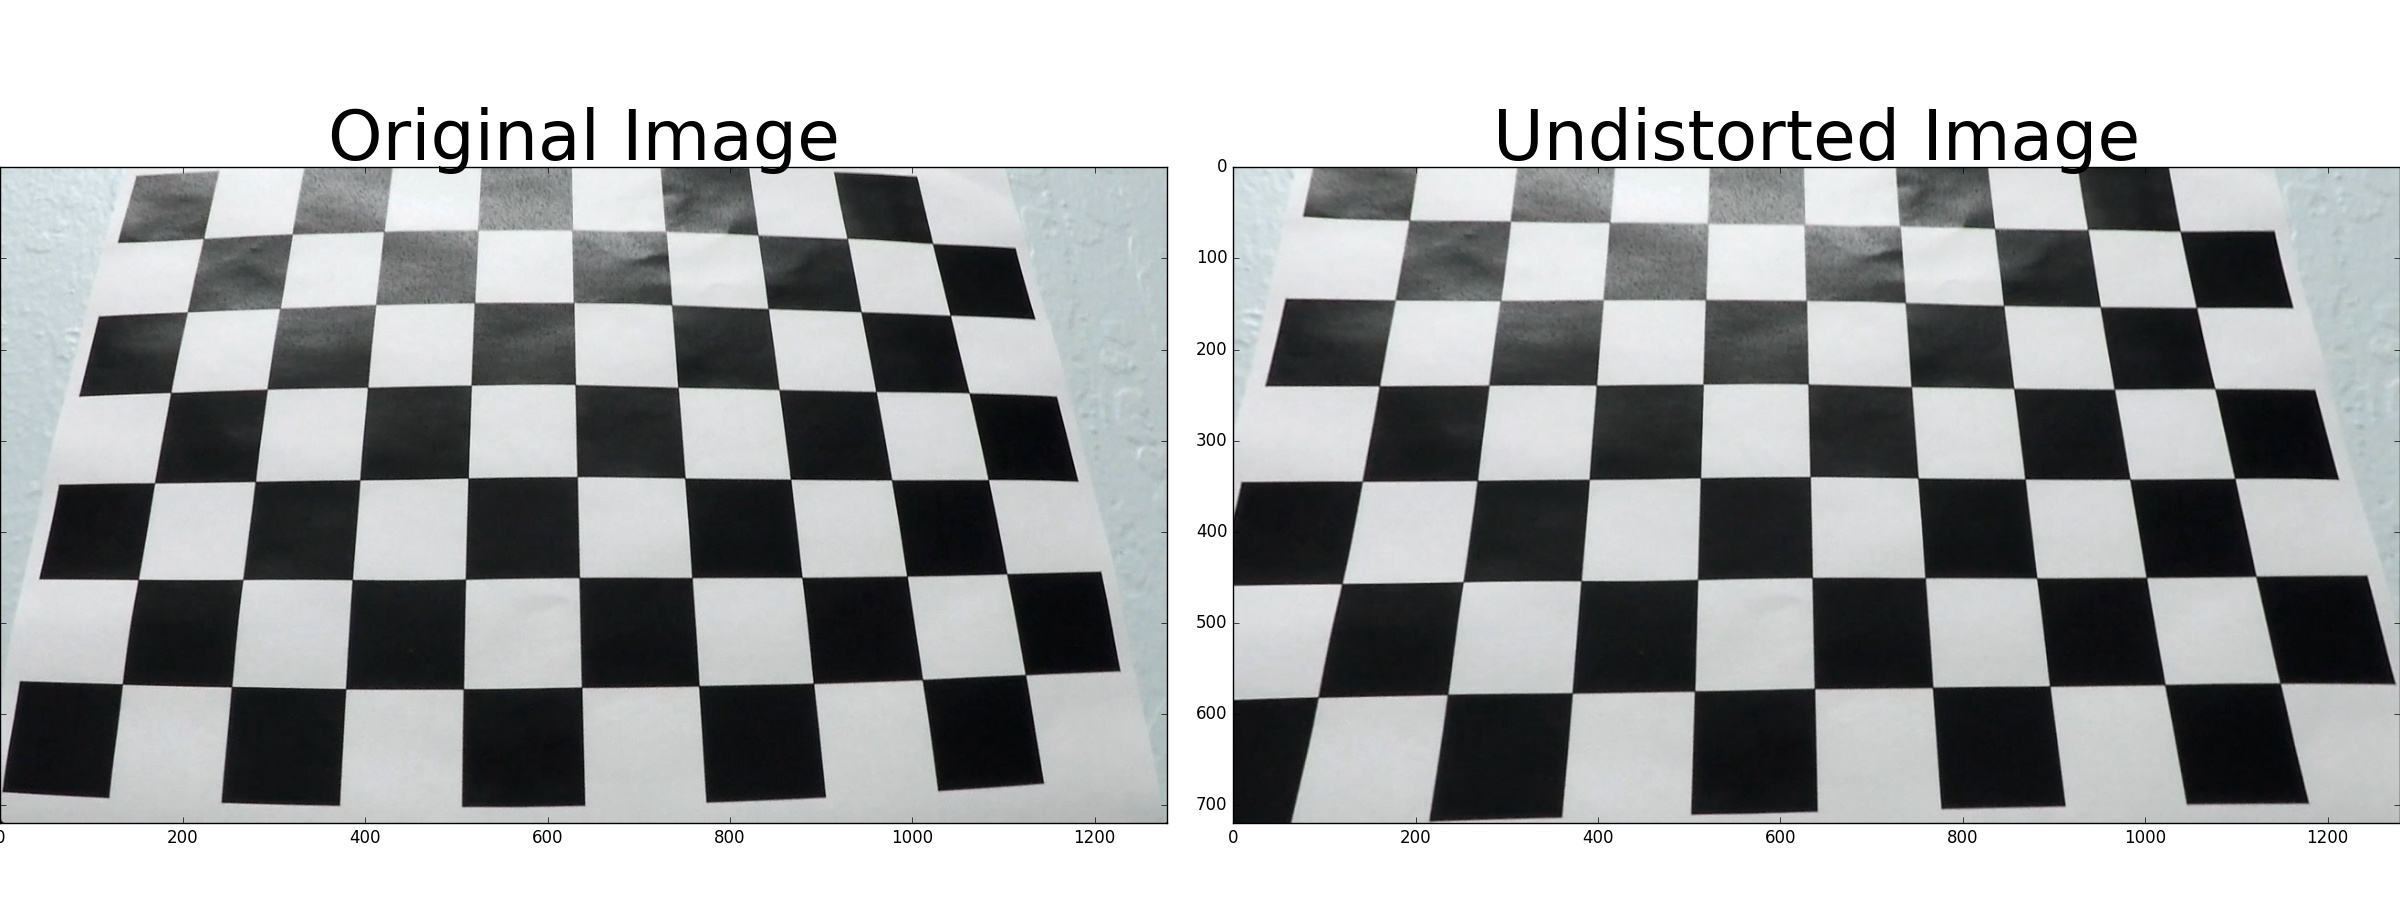
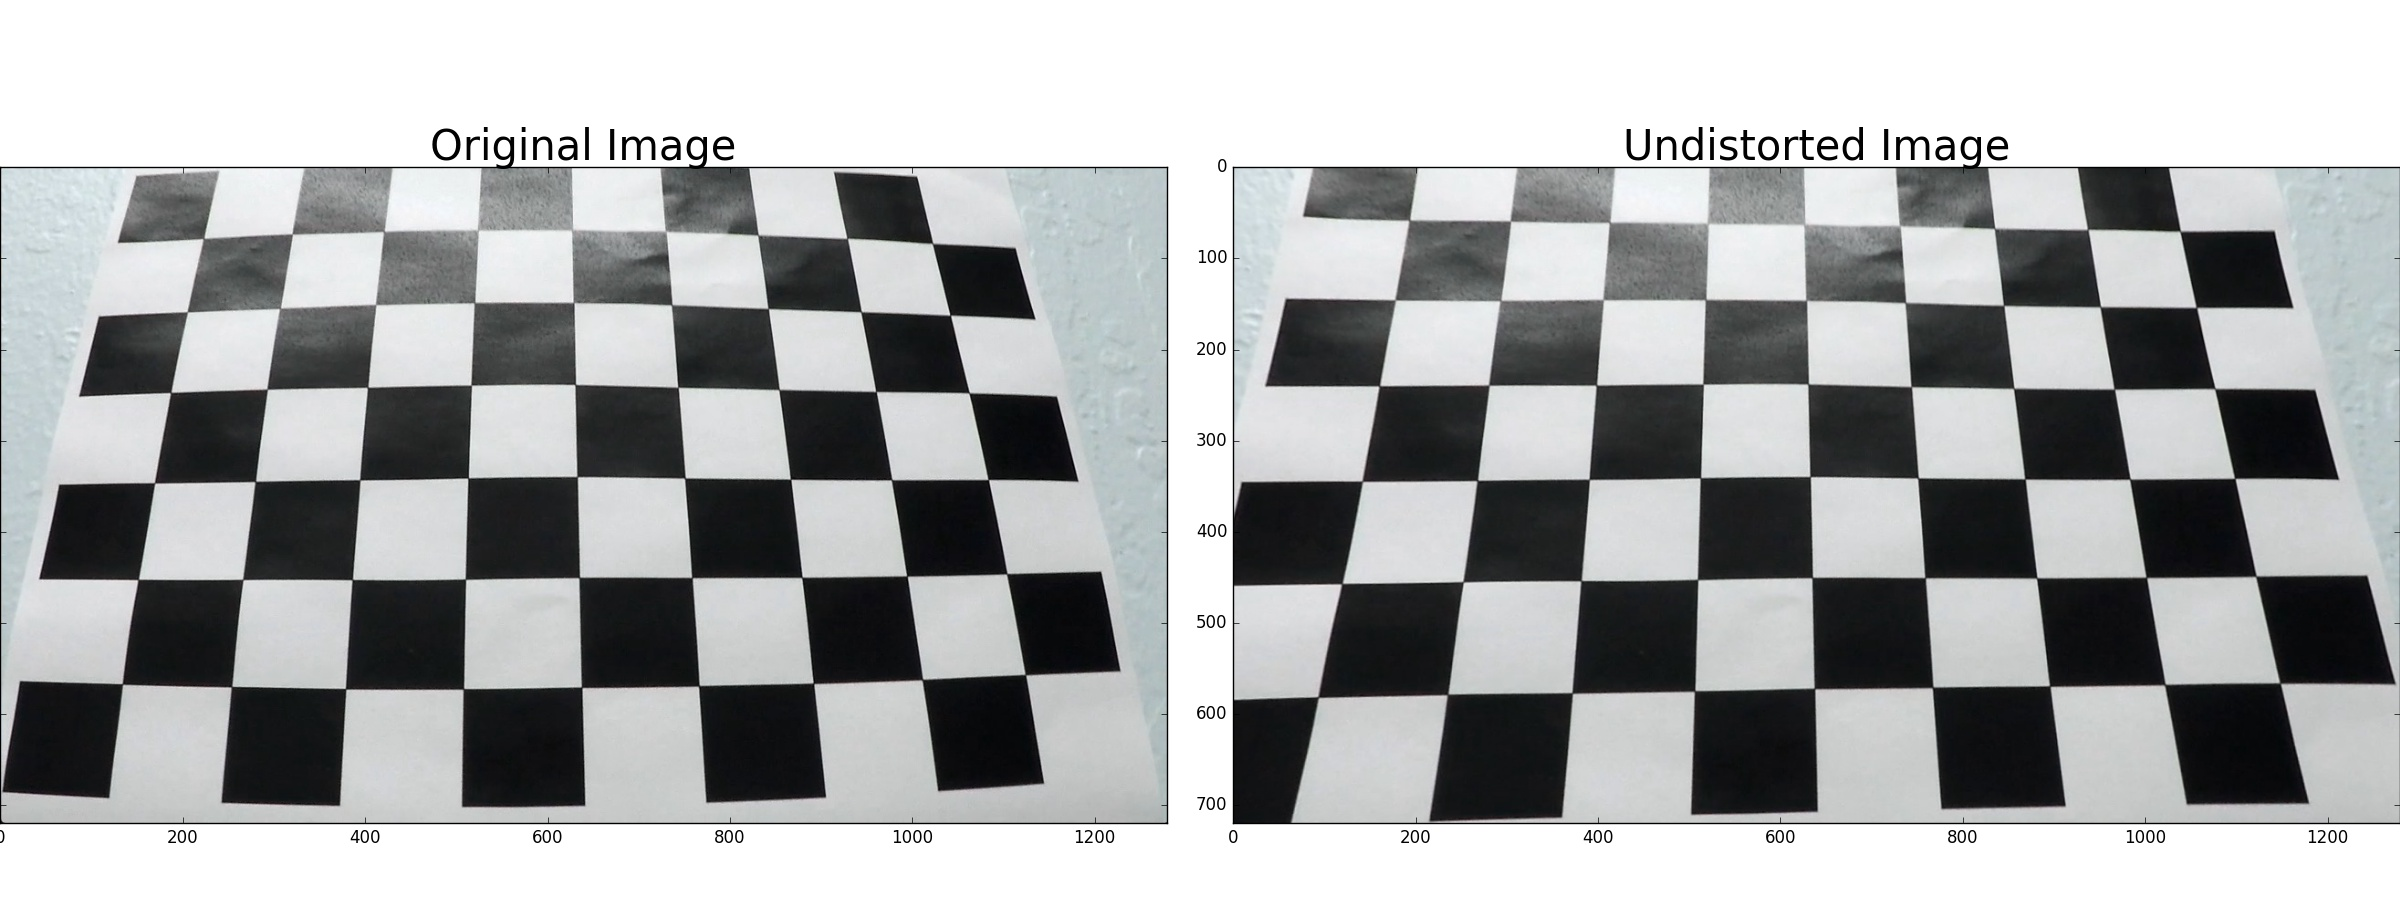
add baseline vision with on RGB processing

Changed region(s): [[0.625, 0.1244, 0.9062, 0.1867], [0.125, 0.1244, 0.3438, 0.1867]]

diff --git a/util_vision.py b/util_vision.py
@@ -1,0 +1,170 @@
+import numpy as np
+import cv2
+
+# a function that applies Sobel x or y, 
+# then takes an absolute value and applies a threshold.
+# Note: calling your function with orient='x', thresh_min=5, thresh_max=100
+# should produce output like the example image shown above this quiz.
+def abs_sobel_thresh(img, orient='x', thresh_min=0, thresh_max=255):
+    
+    # Apply the following steps to img
+    # 1) Convert to grayscale
+    img = cv2.cvtColor(img, cv2.COLOR_RGB2GRAY)
+
+    # 2) Take the derivative in x or y given orient = 'x' or 'y'
+    
+    if 'x' == orient:
+        sobel = cv2.Sobel(img, cv2.CV_64F, 1, 0)
+    else:
+        sobel = cv2.Sobel(img, cv2.CV_64F, 0, 1)
+    # 3) Take the absolute value of the derivative or gradient
+    
+    sobel_abs = np.absolute(sobel) # the edge detection only cares about absolute value
+    num_max_sobel = np.max(sobel)
+    
+    # 4) Scale to 8-bit (0 - 255) then convert to type = np.uint8
+    sobel_norm = (255*sobel_abs)/num_max_sobel
+    # 5) Create a mask of 1's where the scaled gradient magnitude 
+            # is > thresh_min and < thresh_max
+    sobel_mask = np.zeros_like(sobel_norm)
+    sobel_mask[(sobel_norm>=thresh_min) & (sobel_norm<=thresh_max)] = 1
+    # 6) Return this mask as your binary_output image
+    binary_output = sobel_mask
+    return binary_output
+
+
+# a function that applies Sobel x and y, 
+# then computes the magnitude of the gradient
+# and applies a threshold
+def mag_thresh(img, sobel_kernel=3, mag_thresh=(0, 255)):
+    
+    # 1) Convert to grayscale
+    img = cv2.cvtColor(img, cv2.COLOR_RGB2GRAY)
+
+    # 2) Take the derivative in x or y given orient = 'x' or 'y'
+    
+    sobel_x = cv2.Sobel(img, cv2.CV_64F, 1, 0, ksize=sobel_kernel)
+    sobel_y = cv2.Sobel(img, cv2.CV_64F, 0, 1, ksize=sobel_kernel)
+    
+    sobel_xy = np.sqrt( np.square(sobel_x) + np.square(sobel_y))
+    # 3) Take the absolute value of the derivative or gradient
+    sobel = sobel_xy
+    sobel_abs = np.absolute(sobel) # the edge detection only cares about absolute value
+    num_max_sobel = np.max(sobel)
+    
+    # 4) Scale to 8-bit (0 - 255) then convert to type = np.uint8
+    sobel_norm = ((255*sobel_abs)/num_max_sobel).astype(np.uint8) 
+    # 5) Create a mask of 1's where the scaled gradient magnitude 
+            # is > thresh_min and < thresh_max
+    sobel_mask = np.zeros_like(sobel_norm)
+    
+    thresh_min = mag_thresh[0]
+    thresh_max = mag_thresh[1]
+    sobel_mask[(sobel_norm>=thresh_min) & (sobel_norm<=thresh_max)] = 1
+    
+    # 6) Return this mask as your binary_output image
+    binary_output = sobel_mask
+    
+    return binary_output
+
+# a function that applies Sobel x and y, 
+# then computes the direction of the gradient
+# and applies a threshold.
+def dir_threshold(img, sobel_kernel=3, thresh=(0, np.pi/2)):
+    
+    # Apply the following steps to img
+    # 1) Convert to grayscale
+    gray = cv2.cvtColor(img, cv2.COLOR_RGB2GRAY)
+
+    # 2) Take the gradient in x and y separately
+    sobel_x = cv2.Sobel(gray, cv2.CV_64F, 1, 0, ksize=sobel_kernel)
+
+    sobel_y = cv2.Sobel(gray, cv2.CV_64F, 0, 1, ksize=sobel_kernel)    
+    # 3) Take the absolute value of the x and y gradients
+    sobel_x_abs = np.absolute(sobel_x)
+    sobel_y_abs = np.absolute(sobel_y)
+    # 4) Use np.arctan2(abs_sobely, abs_sobelx) to calculate the direction of the gradient 
+    sobel_angle = np.arctan2(sobel_y_abs , sobel_x_abs)
+    # 5) Create a binary mask where direction thresholds are met
+    sobel_masked = np.zeros_like(sobel_angle)
+    
+    thresh_min = thresh[0]
+    thresh_max = thresh[1]
+    sobel_masked[(sobel_angle>=thresh_min) & (sobel_angle<=thresh_max)] = 1
+        
+    # 6) Return this mask as your binary_output image
+    binary_output = sobel_masked
+    return binary_output
+
+
+
+
+class qVision:
+    def __init__(self):
+        pass
+
+    def processImg(self, img_rgb):
+
+        image = img_rgb
+        # Run the function
+        mag_binary = mag_thresh(image, sobel_kernel=3, mag_thresh=(33, 150))
+        dir_binary = dir_threshold(image, sobel_kernel=5, thresh=(0.7, 1.3)) 
+        # dir_binary = dir_threshold(mag_binary, sobel_kernel=11, thresh=(0.7, 1.3), enable_binary_map=True) 
+
+        print('mag_binary shape: ', mag_binary.shape)
+        print('dir_binary shape: ', dir_binary.shape)
+
+        combined = np.zeros_like(dir_binary)
+        combined[  ((dir_binary == 1) & (mag_binary == 1))] = 1
+        # Plot the result
+
+
+
+        img_final = combined
+        return img_final
+
+
+
+
+def DBG_CompareImages(img1, img2, title1, title2, cmap2=None, save_to_file=''):
+    import matplotlib.pyplot as plt
+    import matplotlib.image as mpimg
+
+    f, (ax1, ax2) = plt.subplots(1, 2, figsize=(16, 6))
+    f.tight_layout()
+    ax1.imshow(img1)
+    ax1.set_title(title1, fontsize=30)
+    ax2.imshow(img2, cmap2)
+    ax2.set_title(title2, fontsize=30)
+    plt.subplots_adjust(left=0., right=1, top=0.9, bottom=0.)
+    if '' != save_to_file: 
+        plt.savefig(output_dir+save_to_file)
+    plt.show()
+
+
+def main():
+
+    vision = qVision()
+
+
+    img_bgr = cv2.imread('udacity/test_images/test4.jpg')
+
+    print('img shape: ', img_bgr.shape)
+    img_rgb = cv2.cvtColor(img_bgr, cv2.COLOR_BGR2RGB)
+
+    img_procd = vision.processImg(img_rgb)
+
+    DBG_CompareImages(img_rgb, img_procd, 'Oriddginal Image', 'Processed Image', cmap2='gray')
+
+# test image: /udacity/test_images/test4.jpg
+
+
+if __name__ == "__main__": 
+    import time
+    from datetime import timedelta
+    time_start = time.time()
+
+    main()
+
+    time_end = time.time()
+    print("Time usage: " + str(timedelta(seconds=int( time_end - time_start))))

diff --git a/util_camera.py b/util_camera.py
@@ -19,7 +19,7 @@ class qCamera:
             sample_dir : Description
         
         Returns:
-            TYPE: Description
+            integer: number of calibrated image samples
         """
 
         corner_x = 9
@@ -53,8 +53,11 @@ class qCamera:
 
                 # Draw and display the corners
                 cv2.drawChessboardCorners(img, (corner_x,corner_y), corners, ret)
-                file_loc = './udacity/output_images/' + 'calibration/' + 'corners_found'+str(idx)+'.jpg'
-                cv2.imwrite(file_loc, img)
+
+
+                # file_loc = './udacity/output_images/' + 'calibration/' + 'corners_found'+str(idx)+'.jpg'
+                # cv2.imwrite(file_loc, img)
+
                 # cv2.imshow('img', img)
                 # cv2.waitKey(500)
 
@@ -62,8 +65,8 @@ class qCamera:
         # Do camera calibration given object points and image points
         self.ret, self.mtx, self.dist, self.rvecs, self.tvecs = cv2.calibrateCamera(objpoints, imgpoints, img_size,None,None)
 
-        #TODO: find out if the more chass image calibrated, the better calibration it gets?
-        # print('num of img calibrated: ' , len(imgpoints))
+
+        return len(imgpoints)
 
 
     def undistortImg(self, img):
@@ -85,7 +88,9 @@ def main():
 
     camera = qCamera()
 
-    camera.calibrateSamples('udacity/camera_cal/')
+    num_calibr = camera.calibrateSamples('udacity/camera_cal/')
+    #TODO: find out if the more chass image calibrated, the better calibration it gets?
+    print('Number of images calibrated: ' , num_calibr)
 
     img_distorted = cv2.imread('udacity/camera_cal/calibration3.jpg')
     img_undist = camera.undistortImg(img_distorted)
@@ -95,9 +100,9 @@ def main():
     f, (ax1, ax2) = plt.subplots(1, 2, figsize=(24, 9))
     f.tight_layout()
     ax1.imshow(img_distorted)
-    ax1.set_title('Original Image', fontsize=50)
+    ax1.set_title('Original Image', fontsize=30)
     ax2.imshow(img_undist)
-    ax2.set_title('Undistorted Image', fontsize=50)
+    ax2.set_title('Undistorted Image', fontsize=30)
     plt.subplots_adjust(left=0., right=1, top=0.9, bottom=0.)
     plt.savefig(output_dir+'undistortion.jpg')
     plt.show()

diff --git a/p4_adv_lane_finding.py b/p4_adv_lane_finding.py
@@ -1,24 +1,47 @@
 from util_camera import qCamera
 
 
-def main():
-    import time
-    from datetime import timedelta
 
-    time_start = time.time()
+
+def main():
+
 
     output_dir = 'udacity/'
 
     camera = qCamera()
 
-    camera.calibrateSamples('udacity/camera_cal/')
+    num_of_calibd = camera.calibrateSamples('udacity/camera_cal/')
+    print('Number of calibrated images: ', num_of_calibd)
+
+
+
+    driver_vision = qVision()
+
+
+
+    # output_name = 'white.mp4'
+    # clip1 = VideoFileClip("solidWhiteRight.mp4")
+    # white_clip = clip1.fl_image(driver_vision.processImg) #NOTE: this function expects color images!!
+    # white_clip.write_videofile(output_name, audio=False)
 
 
 
 
 
+
+
+
+
+
+
+
+if __name__ == "__main__": 
+    import time
+    from datetime import timedelta
+    time_start = time.time()
+
+    main()
 
     time_end = time.time()
     print("Time usage: " + str(timedelta(seconds=int( time_end - time_start))))
     
-if __name__ == "__main__": main()
